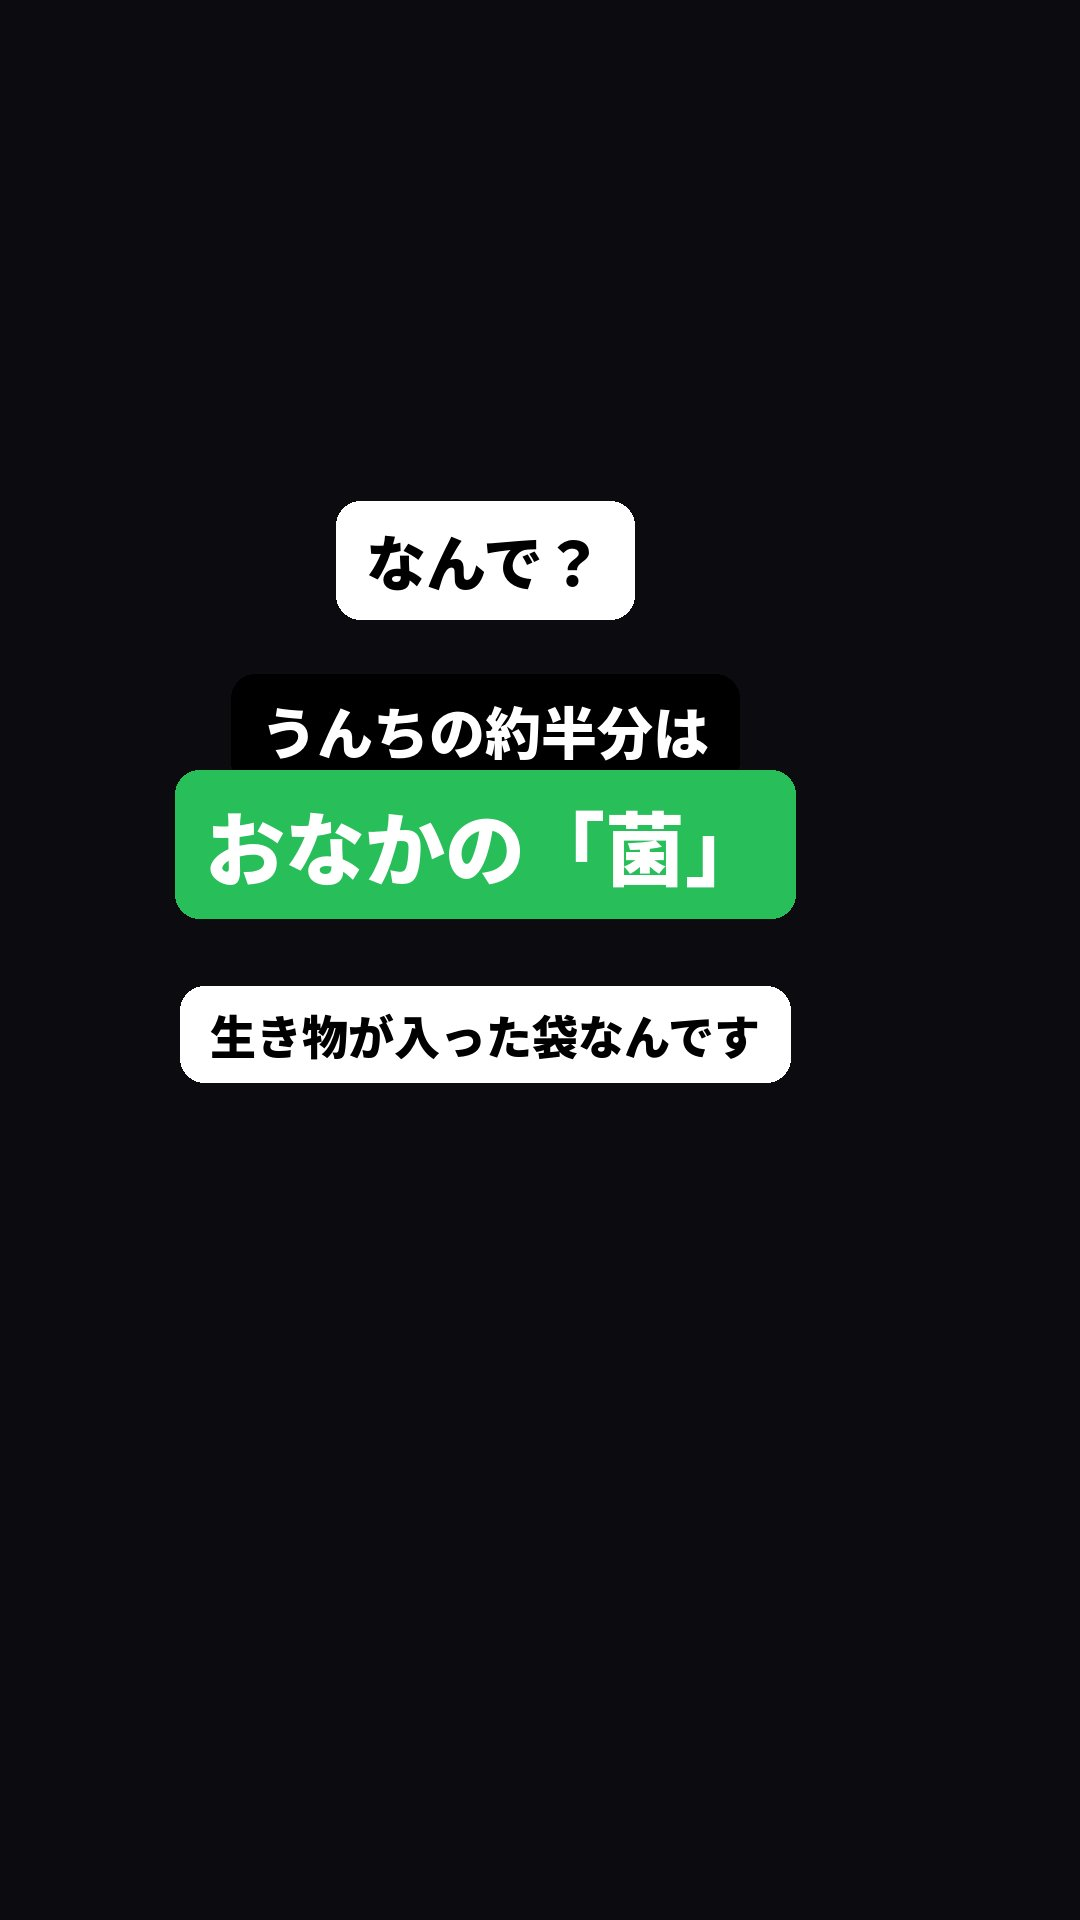
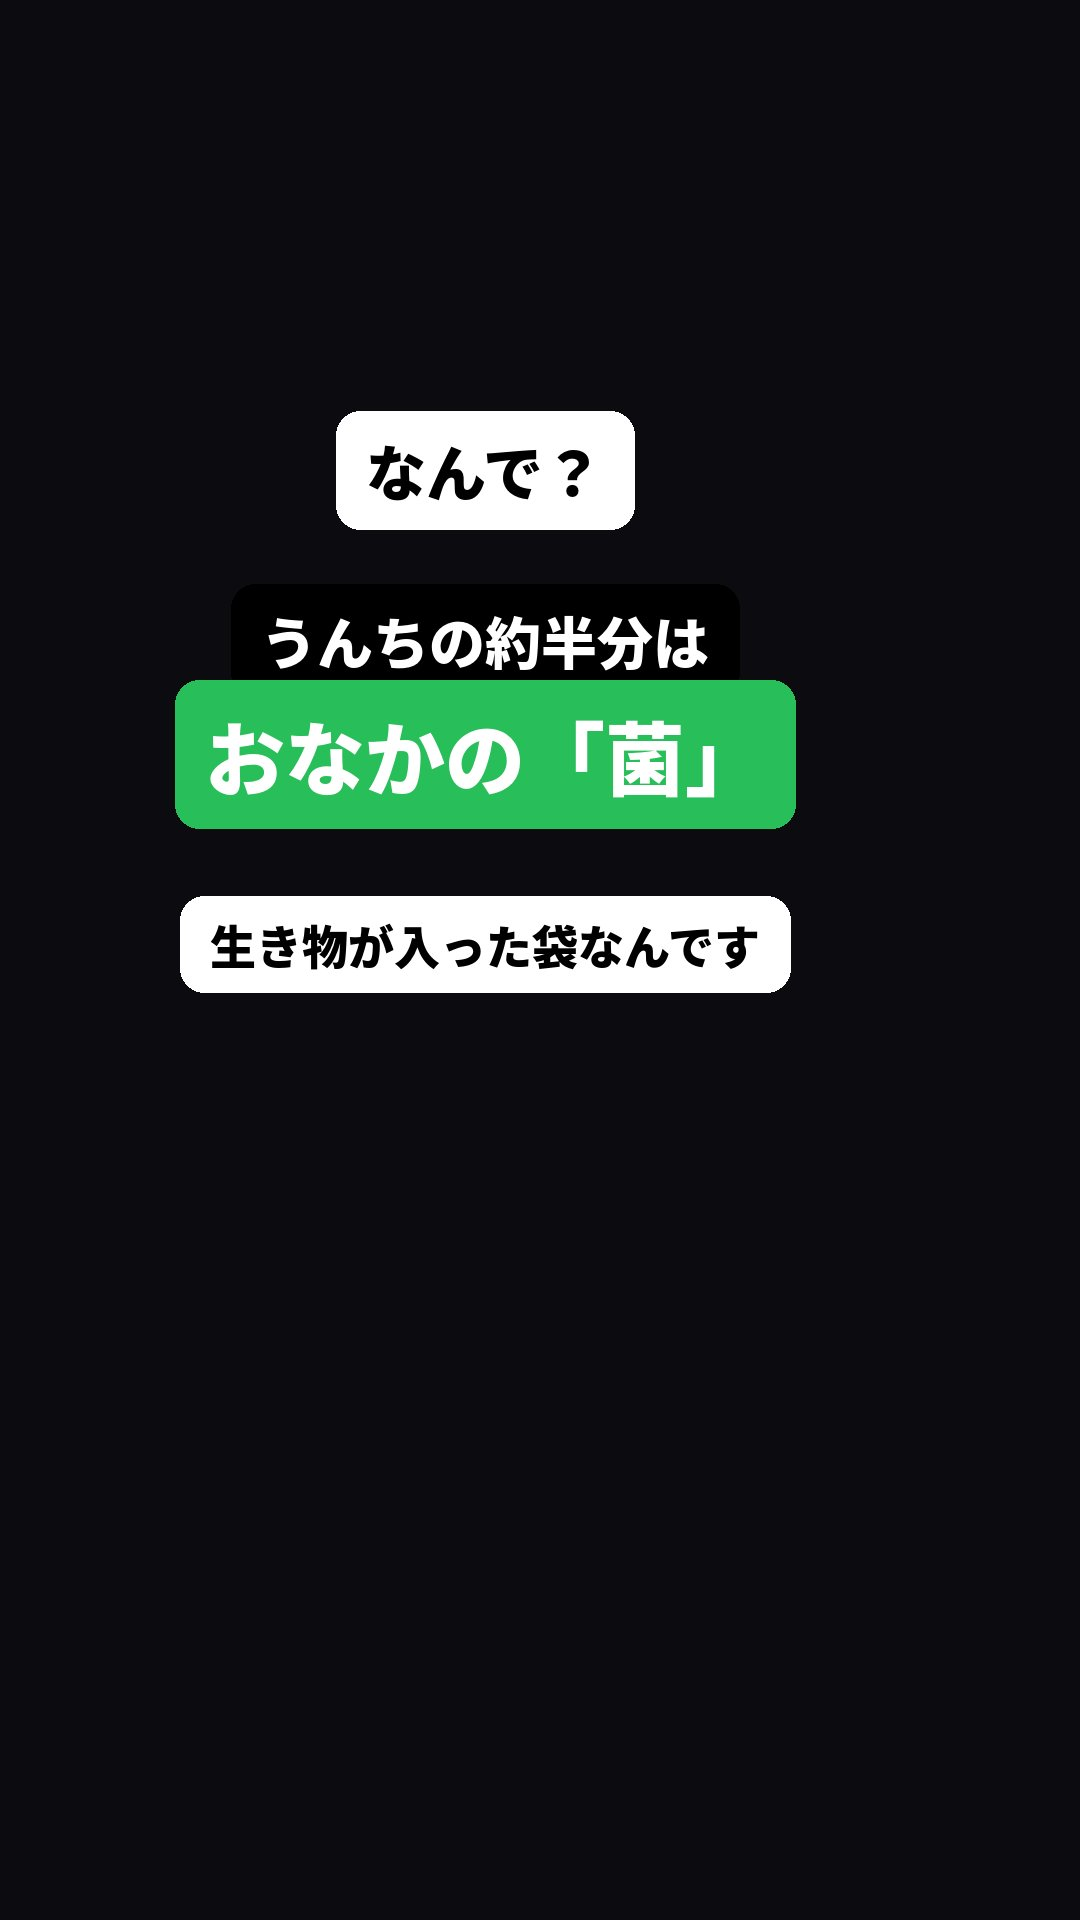
Quiz: real tappable A-D buttons with right/wrong feedback; all slide text kept clear of the caption; video post moved to the bottom
Claude-Session: https://claude.ai/code/session_01KTAQ7tbA9dyiSRaibWFyCH

Changed region(s): [[0.1528, 0.1875, 0.7639, 0.5625]]

diff --git a/js/i18n.js b/js/i18n.js
@@ -5,7 +5,7 @@ const UI = {
     'feed.followEmpty': 'You are not following anyone yet. Tap + on a machine to follow it.',
     'feed.end.title': "You're all caught up", 'feed.end.text': 'Every post here is a true story about a machine NASA left behind. Sources are on the last slide of each post.',
     'feed.replay': 'Watch again', 'feed.makeOwn': 'Make your own post',
-    'tap.unmute': 'Tap for sound', 'gate.play': 'Tap to play', 'gate.sound': 'Sound on 🔊', 'more': 'more', 'less': 'less',
+    'tap.unmute': 'Tap for sound', 'gate.play': 'Tap to play', 'quiz.right': 'Correct!', 'quiz.wrong': 'Not quite…', 'gate.sound': 'Sound on 🔊', 'more': 'more', 'less': 'less',
     'like': 'Like', 'comments': 'Comments', 'save': 'Save', 'share': 'Share', 'sources': 'Sources', 'follow': 'Follow', 'following': 'Following',
     'sound.on': 'Sound on', 'sound.off': 'Sound off', 'read.on': 'Read aloud: on', 'read.off': 'Read aloud: off', 'read': 'Read aloud',
     'cm.placeholder': 'Add a comment…', 'cm.send': 'Comment', 'cm.local': 'Only saved on this device', 'cm.empty': 'No comments yet.', 'cm.sources': 'See sources', 'cm.spoilerHint': 'Show answer (spoiler)', 'cm.author': 'Creator', 'cm.pinned': 'Pinned', 'cm.first': 'No comments from you yet. Share your thoughts!', 'cm.count': '{n} comments', 'cm.now': 'just now', 'cm.min': '{n} min ago', 'cm.hour': '{n} h ago', 'cm.day': '{n} d ago', 'cm.dislike': 'Dislike', 'cm.hide': 'Hide answer', 'cm.pinnedBy': 'Pinned by {u}', 'cm.cancel': 'Cancel',
@@ -35,7 +35,7 @@ const UI = {
     'feed.followEmpty': 'まだ誰もフォローしていません。機械のアイコンの＋を押すとフォローできます。',
     'feed.end.title': '全部見ました', 'feed.end.text': 'ここにある投稿は、NASA が置いてきた機械の本当の話です。出典は各投稿の最後の1枚にあります。',
     'feed.replay': 'もう一度見る', 'feed.makeOwn': '自分でも投稿を作る',
-    'tap.unmute': 'タップで音を出す', 'gate.play': 'タップして再生', 'gate.sound': '音が出ます 🔊', 'more': 'もっと見る', 'less': '閉じる',
+    'tap.unmute': 'タップで音を出す', 'gate.play': 'タップして再生', 'quiz.right': '正解！', 'quiz.wrong': 'ざんねん…', 'gate.sound': '音が出ます 🔊', 'more': 'もっと見る', 'less': '閉じる',
     'like': 'いいね', 'comments': 'コメント', 'save': '保存', 'share': 'シェア', 'sources': '出典', 'follow': 'フォロー', 'following': 'フォロー中',
     'sound.on': '音あり', 'sound.off': '音なし', 'read.on': '読み上げ：オン', 'read.off': '読み上げ：オフ', 'read': '読み上げ',
     'cm.placeholder': 'コメントを追加…', 'cm.send': 'コメント', 'cm.local': 'この端末にだけ保存されます', 'cm.empty': 'まだコメントはありません。', 'cm.sources': '出典を見る', 'cm.spoilerHint': '答え（ネタバレ）を表示', 'cm.author': '作者', 'cm.pinned': '固定', 'cm.first': '感想をコメントしてみよう', 'cm.count': 'コメント {n} 件', 'cm.now': 'たった今', 'cm.min': '{n}分前', 'cm.hour': '{n}時間前', 'cm.day': '{n}日前', 'cm.dislike': '低評価', 'cm.hide': '答えを隠す', 'cm.pinnedBy': '{u} さんによって固定されています', 'cm.cancel': 'キャンセル',

diff --git a/js/feed.js b/js/feed.js
@@ -338,6 +338,21 @@ function carouselPost(p, el, stage, onSlide) {
     auto = setTimeout(() => { if (idx >= slides.length - 1) go(0, 'instant'); else go(idx + 1); }, d);
   };
   const hold = () => { held = true; stopAuto(); };
+  /* tappable quiz choices: mark right/wrong, then show the answer slide */
+  car.querySelectorAll('.qz').forEach(qz => {
+    const qi = [...car.children].indexOf(qz.closest('.slide')); const q = slides[qi]?.quiz; if (!q) return;
+    const res = qz.querySelector('.qz-res');
+    qz.querySelectorAll('.qz-b').forEach(btn => {
+      ['pointerdown', 'pointerup'].forEach(ev => btn.addEventListener(ev, e => e.stopPropagation()));
+      btn.addEventListener('click', e => {
+        e.stopPropagation(); hold();
+        const i = +btn.dataset.i, ok = i === q.answer;
+        qz.querySelectorAll('.qz-b').forEach((b, j) => { b.classList.toggle('right', j === q.answer); b.classList.toggle('wrong', j === i && !ok); b.disabled = true; });
+        res.textContent = t(ok ? 'quiz.right' : 'quiz.wrong');
+        setTimeout(() => go(qi + 1), 1300);
+      });
+    });
+  });
   car.addEventListener('pointerdown', e => { if (e.isPrimary) hold(); }, { passive: true });
   // only a sideways wheel/trackpad gesture counts as touching; vertical scrolling between posts does not
   car.addEventListener('wheel', e => { if (Math.abs(e.deltaX) > Math.abs(e.deltaY) && Math.abs(e.deltaX) > 4) hold(); }, { passive: true });

diff --git a/css/app.css b/css/app.css
@@ -327,3 +327,16 @@ table.t th,table.t td{border-bottom:1px solid var(--line);padding:8px 6px;text-a
 .ytx.clamp{display:-webkit-box;-webkit-line-clamp:4;-webkit-box-orient:vertical;overflow:hidden}
 .ymore{background:none;border:0;color:#aaa;font-weight:600;font-size:13px;padding:4px 0;cursor:pointer}
 .ymore:hover{color:#f1f1f1}
+
+/* tappable quiz choices (kept between the top bar and the caption on any screen height) */
+.qz{position:absolute;left:9%;right:calc(9% + 56px);top:34.5%;bottom:32.5%;z-index:6;display:flex;flex-direction:column;gap:2%}
+.qz-b{flex:1;min-height:0;display:flex;align-items:center;gap:14px;padding:0 18px;border:0;border-radius:14px;color:#fff;font:inherit;font-weight:900;font-size:clamp(15px,2.6vh,22px);text-align:left;cursor:pointer;box-shadow:0 3px 0 rgba(0,0,0,.25);transition:transform .1s,opacity .2s}
+.qz-b:active{transform:scale(.97)}
+.qz-b b{width:18px}
+.qz-b.c0{background:#ff4081}.qz-b.c1{background:#3c8cff}.qz-b.c2{background:#ff9600}.qz-b.c3{background:#28be5a}
+.qz-b:disabled{opacity:.35;cursor:default}
+.qz-b.right{opacity:1;outline:4px solid #fff}
+.qz-b.wrong{opacity:1;background:#555}
+.qz-res{position:absolute;inset:0;margin:0;display:grid;place-items:center;pointer-events:none;font-weight:900;font-size:clamp(28px,5vh,44px);color:#fff;text-shadow:0 2px 8px rgba(0,0,0,.9)}
+.qz-res:empty{display:none}
+@media (min-width:800px){.qz{right:calc(9% + 70px)}}

diff --git a/sw.js b/sw.js
@@ -1,5 +1,5 @@
 // Offline support: app shell cached on install; data network-first; media cache-first.
-const V = 'oor-v18';
+const V = 'oor-v20';
 const SHELL = ['./', 'index.html', 'css/app.css', 'js/main.js', 'js/i18n.js', 'js/data.js', 'js/store.js', 'js/render.js', 'js/feed.js', 'js/sheets.js', 'js/pages.js', 'js/create.js', 'js/speech.js', 'js/audio.js', 'vendor/idb-keyval.js', 'vendor/html-to-image.js', 'manifest.webmanifest', 'icons/icon-192.png'];
 self.addEventListener('install', e => { e.waitUntil(caches.open(V).then(c => c.addAll(SHELL)).then(() => self.skipWaiting())); });
 self.addEventListener('activate', e => { e.waitUntil(caches.keys().then(ks => Promise.all(ks.filter(k => k !== V).map(k => caches.delete(k)))).then(() => self.clients.claim())); });

diff --git a/js/render.js b/js/render.js
@@ -63,6 +63,10 @@ export function renderSlide(s, { post } = {}) {
   if (s.bg) el.append(img(L(s.bg), 'bg', L(s.alt) || ''));
   if (s.pos === 'bottom') el.append(h('div', { class: 'shade' }));
   el.append(h('div', { class: 'lay ' + (s.pos || 'top') }, (s.texts || []).map(x => txt(x.t, x.style || 'label'))));
+  if (s.quiz) el.append(h('div', { class: 'qz', role: 'group', 'aria-label': 'Quiz' },
+    s.quiz.choices.map((c, i) => h('button', { class: 'qz-b c' + i, type: 'button', 'data-i': i },
+      h('b', { text: 'ABCD'[i] }), h('span', { text: L(c) }))),
+    h('p', { class: 'qz-res', 'aria-live': 'polite' })));
   return el;
 }
 

diff --git a/tools/build_lost_quiz.py b/tools/build_lost_quiz.py
@@ -13,8 +13,10 @@ def cover(im, cx=.5, cy=.5, z=1.0):
     if th > ih: th = ih; tw = th * W / H
     x0 = min(max(cx * iw - tw / 2, 0), iw - tw); y0 = min(max(cy * ih - th / 2, 0), ih - th)
     return im.resize((W, H), Image.LANCZOS, box=(x0, y0, x0 + tw, y0 + th))
-JA_STORY = [{'bg': 'astro', 'y': 560, 'note': '写真：アポロ12号の宇宙飛行士（NASA）', 'items': [('pill', 'なんで置いてきたの？', 52, (255, 255, 255), (0, 0, 0)), ('gap', 40), ('pill', '帰りに月の石を', 48, (0, 0, 0), (255, 255, 255)), ('pill', 'たくさん持ち帰るため', 48, (0, 0, 0), (255, 255, 255)), ('gap', 30), ('pill', 'いらない物は置いてきた', 56, (255, 206, 0), (0, 0, 0))]}, {'bg': 'lm', 'y': 600, 'items': [('pill', 'でも今、科学者が', 50, (255, 255, 255), (0, 0, 0)), ('pill', 'いちばん取りに行きたいのは', 50, (255, 255, 255), (0, 0, 0)), ('gap', 60), ('pill', 'うんち', 130, (255, 206, 0), (0, 0, 0))]}, {'bg': 'black', 'y': 560, 'items': [('pill', 'なんで？', 60, (255, 255, 255), (0, 0, 0)), ('gap', 50), ('pill', 'うんちの約半分は', 56, (0, 0, 0), (255, 255, 255)), ('pill', 'おなかの「菌」', 80, (40, 190, 90), (255, 255, 255)), ('gap', 40), ('pill', '生き物が入った袋なんです', 46, (255, 255, 255), (0, 0, 0))]}, {'bg': 'ground', 'y': 430, 'items': [('pill', 'しかも月はこんな場所', 52, (255, 255, 255), (0, 0, 0)), ('gap', 50), ('card', '空気', 'ない', (60, 140, 255)), ('card', '昼の温度', '約100℃', (230, 60, 60)), ('card', '夜の温度', '約−170℃', (60, 140, 255)), ('card', '放射線', 'あびっぱなし', (255, 150, 0)), ('gap', 10), ('pill', '生き物には最悪の場所', 52, (255, 206, 0), (0, 0, 0))]}, {'bg': 'black', 'y': 520, 'items': [('pill', 'そこで50年以上…', 56, (255, 255, 255), (0, 0, 0)), ('pill', 'もし菌が生きていたら', 56, (255, 255, 255), (0, 0, 0)), ('gap', 50), ('pill', '生き物は', 70, (40, 190, 90), (255, 255, 255)), ('pill', '宇宙の旅にも', 70, (40, 190, 90), (255, 255, 255)), ('pill', '耐えられるかも', 70, (40, 190, 90), (255, 255, 255)), ('gap', 70), ('pill', '生きてると思う？ ○か×でコメントしてね', 40, (255, 206, 0), (0, 0, 0))]}]
-EN_STORY = [{'bg': 'astro', 'y': 560, 'note': 'Photo: Apollo 12 astronaut (NASA)', 'items': [('pill', 'Why leave things there?', 50, (255, 255, 255), (0, 0, 0)), ('gap', 40), ('pill', 'To carry lots of', 48, (0, 0, 0), (255, 255, 255)), ('pill', 'Moon rocks home', 48, (0, 0, 0), (255, 255, 255)), ('gap', 30), ('pill', "they left what they didn't need", 46, (255, 206, 0), (0, 0, 0))]}, {'bg': 'lm', 'y': 600, 'items': [('pill', 'But what scientists', 50, (255, 255, 255), (0, 0, 0)), ('pill', 'most want back now is', 50, (255, 255, 255), (0, 0, 0)), ('gap', 60), ('pill', 'the poop', 120, (255, 206, 0), (0, 0, 0))]}, {'bg': 'black', 'y': 560, 'items': [('pill', 'Why?', 60, (255, 255, 255), (0, 0, 0)), ('gap', 50), ('pill', 'About half of poop is', 54, (0, 0, 0), (255, 255, 255)), ('pill', 'gut microbes', 80, (40, 190, 90), (255, 255, 255)), ('gap', 40), ('pill', 'Bags full of life', 46, (255, 255, 255), (0, 0, 0))]}, {'bg': 'ground', 'y': 430, 'items': [('pill', 'And the Moon is like this:', 50, (255, 255, 255), (0, 0, 0)), ('gap', 50), ('card', 'Air', 'none', (60, 140, 255)), ('card', 'Daytime', '~100°C', (230, 60, 60)), ('card', 'Night', '~−170°C', (60, 140, 255)), ('card', 'Radiation', 'nonstop', (255, 150, 0)), ('gap', 10), ('pill', 'The worst place for life', 50, (255, 206, 0), (0, 0, 0))]}, {'bg': 'black', 'y': 520, 'items': [('pill', 'After 50+ years there,', 54, (255, 255, 255), (0, 0, 0)), ('pill', 'if the microbes are alive', 54, (255, 255, 255), (0, 0, 0)), ('gap', 50), ('pill', 'life might', 70, (40, 190, 90), (255, 255, 255)), ('pill', 'survive trips', 70, (40, 190, 90), (255, 255, 255)), ('pill', 'through space', 70, (40, 190, 90), (255, 255, 255)), ('gap', 70), ('pill', 'Alive or not? Comment O or X', 42, (255, 206, 0), (0, 0, 0))]}]
+JA_STORY = [{'bg': 'astro', 'y': 470, 'note': '写真：アポロ12号の宇宙飛行士（NASA）', 'items': [('pill', 'なんで置いてきたの？', 52, (255, 255, 255), (0, 0, 0)), ('gap', 40), ('pill', '帰りに月の石を', 48, (0, 0, 0), (255, 255, 255)), ('pill', 'たくさん持ち帰るため', 48, (0, 0, 0), (255, 255, 255)), ('gap', 30), ('pill', 'いらない物は置いてきた', 56, (255, 206, 0), (0, 0, 0))]}, {'bg': 'lm', 'y': 400, 'items': [('pill', 'でも今、科学者が', 50, (255, 255, 255), (0, 0, 0)), ('pill', 'いちばん取りに行きたいのは', 50, (255, 255, 255), (0, 0, 0)), ('gap', 60), ('pill', 'うんち', 130, (255, 206, 0), (0, 0, 0))]}, {'bg': 'black', 'y': 470, 'items': [('pill', 'なんで？', 60, (255, 255, 255), (0, 0, 0)), ('gap', 50), ('pill', 'うんちの約半分は', 56, (0, 0, 0), (255, 255, 255)), ('pill', 'おなかの「菌」', 80, (40, 190, 90), (255, 255, 255)), ('gap', 40), ('pill', '生き物が入った袋なんです', 46, (255, 255, 255), (0, 0, 0))]}, {'bg': 'ground', 'y': 440, 'items': [('pill', 'しかも月はこんな場所', 52, (255, 255, 255), (0, 0, 0)), ('gap', 50), ('card', '空気', 'ない', (60, 140, 255)), ('card', '昼の温度', '約100℃', (230, 60, 60)), ('card', '夜の温度', '約−170℃', (60, 140, 255)), ('card', '放射線', 'あびっぱなし', (255, 150, 0)), ('gap', 10), ('pill', '生き物には最悪の場所', 52, (255, 206, 0), (0, 0, 0))]}, {'bg': 'black', 'y': 400, 'items': [('pill', 'そこで50年以上…', 56, (255, 255, 255), (0, 0, 0)), ('pill', 'もし菌が生きていたら', 56, (255, 255, 255), (0, 0, 0)), ('gap', 50), ('pill', '生き物は', 70, (40, 190, 90), (255, 255, 255)), ('pill', '宇宙の旅にも', 70, (40, 190, 90), (255, 255, 255)), ('pill', '耐えられるかも', 70, (40, 190, 90), (255, 255, 255)), ('gap', 70), ('pill', '生きてると思う？ ○か×でコメントしてね', 40, (255, 206, 0), (0, 0, 0))]}]
+EN_STORY = [{'bg': 'astro', 'y': 470, 'note': 'Photo: Apollo 12 astronaut (NASA)', 'items': [('pill', 'Why leave things there?', 50, (255, 255, 255), (0, 0, 0)), ('gap', 40), ('pill', 'To carry lots of', 48, (0, 0, 0), (255, 255, 255)), ('pill', 'Moon rocks home', 48, (0, 0, 0), (255, 255, 255)), ('gap', 30), ('pill', "they left what they didn't need", 46, (255, 206, 0), (0, 0, 0))]}, {'bg': 'lm', 'y': 400, 'items': [('pill', 'But what scientists', 50, (255, 255, 255), (0, 0, 0)), ('pill', 'most want back now is', 50, (255, 255, 255), (0, 0, 0)), ('gap', 60), ('pill', 'the poop', 120, (255, 206, 0), (0, 0, 0))]}, {'bg': 'black', 'y': 470, 'items': [('pill', 'Why?', 60, (255, 255, 255), (0, 0, 0)), ('gap', 50), ('pill', 'About half of poop is', 54, (0, 0, 0), (255, 255, 255)), ('pill', 'gut microbes', 80, (40, 190, 90), (255, 255, 255)), ('gap', 40), ('pill', 'Bags full of life', 46, (255, 255, 255), (0, 0, 0))]}, {'bg': 'ground', 'y': 440, 'items': [('pill', 'And the Moon is like this:', 50, (255, 255, 255), (0, 0, 0)), ('gap', 50), ('card', 'Air', 'none', (60, 140, 255)), ('card', 'Daytime', '~100°C', (230, 60, 60)), ('card', 'Night', '~−170°C', (60, 140, 255)), ('card', 'Radiation', 'nonstop', (255, 150, 0)), ('gap', 10), ('pill', 'The worst place for life', 50, (255, 206, 0), (0, 0, 0))]}, {'bg': 'black', 'y': 400, 'items': [('pill', 'After 50+ years there,', 54, (255, 255, 255), (0, 0, 0)), ('pill', 'if the microbes are alive', 54, (255, 255, 255), (0, 0, 0)), ('gap', 50), ('pill', 'life might', 70, (40, 190, 90), (255, 255, 255)), ('pill', 'survive trips', 70, (40, 190, 90), (255, 255, 255)), ('pill', 'through space', 70, (40, 190, 90), (255, 255, 255)), ('gap', 70), ('pill', 'Alive or not? Comment O or X', 42, (255, 206, 0), (0, 0, 0))]}]
+# visible area on phones (top bar above, account name/caption below): keep text inside
+SAFE_TOP, SAFE_BOTTOM = 360, 1280
 COL = [(255, 64, 129), (60, 140, 255), (255, 150, 0), (40, 190, 90)]
 T = {
  'ja': dict(tag='みんなの質問への返信', q=['月に人間が残した物で', 'いちばん数が多いのって', 'なに？'],
@@ -48,15 +50,11 @@ def main():
     story_bg = {'astro': dim(cover(astro, .55, .6, 1.3), .7), 'ground': dim(cover(lm, .5, .9, 2.6), .55),
                 'lm': dim(bg1, .5), 'black': Image.new('RGB', (W, H), (12, 12, 16))}
     for lang, t in T.items():
-        # 1 question
-        im = bg1.copy(); d = ImageDraw.Draw(im); sticker(d, 300, t['tag'], t['q'], 48)
-        for i, (c, v) in enumerate(zip(COL, t['ch'])):
-            y = 960 + i * 128; d.rounded_rectangle((160, y, 870, y + 104), 30, fill=c)
-            d.text((210, y + 52), 'ABCD'[i], font=F(56), fill=(255, 255, 255), anchor='lm'); d.text((300, y + 52), v, font=F(54), fill=(255, 255, 255), anchor='lm')
-        d.text((40, 1520), t['note'], font=F(26, 'Bold'), fill=(235, 235, 235), stroke_width=3, stroke_fill=(0, 0, 0))
+        # 1 question (the A-D buttons are real, tappable buttons drawn by the app)
+        im = bg1.copy(); d = ImageDraw.Draw(im); sticker(d, SAFE_TOP, t['tag'], t['q'], 48)
         im.save(f'{OUT}/quiz1.{lang}.jpg', quality=85)
         # 2 answer + ranking
-        im = bg1.copy(); d = ImageDraw.Draw(im); b = sticker(d, 300, t['tag'], [t['ans']], 48, (40, 160, 80))
+        im = bg1.copy(); d = ImageDraw.Draw(im); b = sticker(d, SAFE_TOP, t['tag'], [t['ans']], 48, (40, 160, 80))
         d.rounded_rectangle((90, b + 30, 870, b + 640), 30, fill=(255, 255, 255))
         for i, (name, n, ci) in enumerate(t['rows']):
             y = b + 70 + i * 140; w = max(70, int(560 * int(''.join(ch for ch in n if ch.isdigit())) / 96))
@@ -77,11 +75,12 @@ def main():
                 elif kind == 'gap': y += item[1]
                 elif kind == 'card':
                     _, label, value, col = item
-                    d.rounded_rectangle((150, y - 60, 820, y + 60), 26, fill=(255, 255, 255))
-                    d.rounded_rectangle((150, y - 60, 170, y + 60), 10, fill=col)
+                    d.rounded_rectangle((150, y - 50, 820, y + 50), 26, fill=(255, 255, 255))
+                    d.rounded_rectangle((150, y - 50, 170, y + 50), 10, fill=col)
                     d.text((200, y), label, font=F(40, 'Bold'), fill=(110, 110, 110), anchor='lm')
-                    d.text((790, y), value, font=F(48), fill=(20, 20, 20), anchor='rm'); y += 150
-            if spec.get('note'): d.text((40, 1520), spec['note'], font=F(26, 'Bold'), fill=(235, 235, 235), stroke_width=3, stroke_fill=(0, 0, 0))
+                    d.text((790, y), value, font=F(48), fill=(20, 20, 20), anchor='rm'); y += 122
+            assert y - 60 <= SAFE_BOTTOM, (k, lang, y)
+            if spec.get('note'): d.text((40, SAFE_BOTTOM - 10), spec['note'], font=F(26, 'Bold'), fill=(235, 235, 235), stroke_width=3, stroke_fill=(0, 0, 0))
             im.save(f'{OUT}/quiz{k}.{lang}.jpg', quality=85)
     # BGM: Kevin MacLeod "Monkeys Spinning Monkeys" (CC BY 4.0), passed as <audio_dir>/Monkeys Spinning Monkeys.mp3
     subprocess.run(['ffmpeg', '-v', 'error', '-y', '-i', f'{AUD}/Monkeys Spinning Monkeys.mp3', '-map_metadata', '-1', '-af', 'loudnorm=I=-18',
